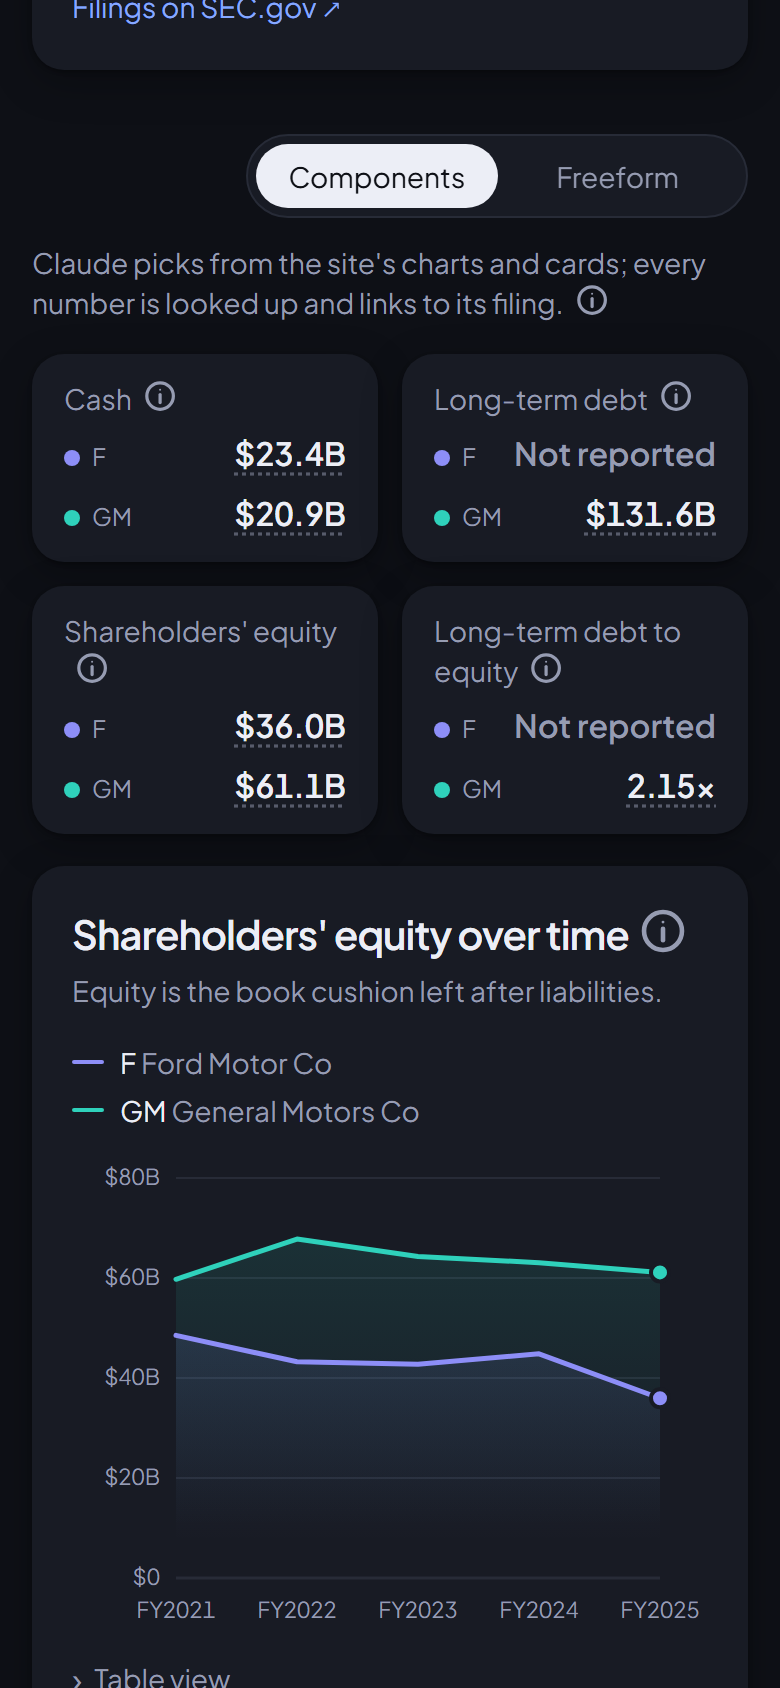
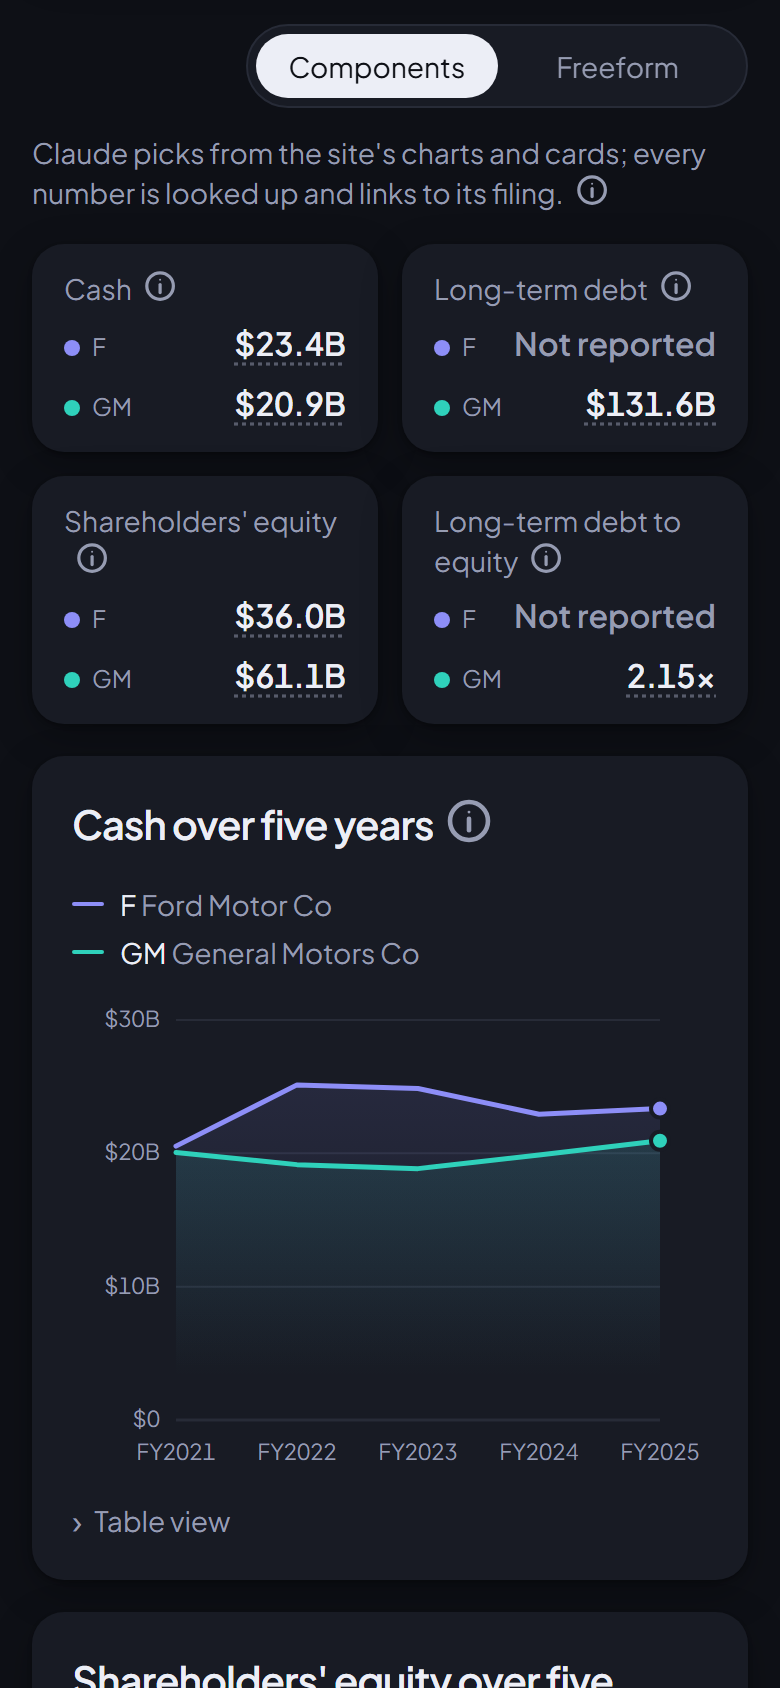
README: eval grading and score-only flags, featured --mode components, current F/GM phone shot
Claude-Session: https://claude.ai/code/session_015WuGVmquLA4h9Q3meDuMeT

diff --git a/README.md b/README.md
@@ -70,7 +70,7 @@ flowchart LR
 | `lib/filings` | The latest 10-K, condensed once per filing by Claude Haiku 5.5 (business, themed risks with quotes). Every quote is checked against the filing text. |
 | `lib/cache` | One interface: a local `.cache/` folder, or Upstash Redis when deployed. |
 | `agent/` | Lens + mode + data → components or an HTML page. No Next.js imports. [Its README](agent/README.md). |
-| `evals/` | Code checks on real output: every number in prose appears in the data, no `not reported` shown as a value, valid components, self-contained freeform pages. |
+| `evals/` | Code checks on real output: every number in prose appears in the data, no `not reported` shown as a value, valid components, self-contained freeform pages. Optional model-graded checks (Claude Opus) for what code can't judge: does the page answer the lens, do shared rows pair the same subject, does it claim anything beyond the data. |
 | `featured/` | Five comparisons generated ahead of time and committed, so they open with no Claude or SEC calls. |
 | `app/` | Next.js App Router: pages, the streaming `/api/compare` route, sign-in. |
 
@@ -93,8 +93,8 @@ your key, plus Claude Haiku 5.5 once per 10-K the first time a text lens reads i
 | Command | |
 |---|---|
 | `npm run lint && npm run typecheck && npm test` | What CI runs. Never calls Claude or the SEC. |
-| `npm run eval -- [--model sonnet\|opus] [--only <case>]` | Generates the eval cases and scores them (`evals/out/`). Calls Claude. |
-| `npm run featured -- [--only <case>] [--mode freeform]` | Regenerates featured comparisons, keeping only runs that pass every check (`--mode freeform`: only the freeform pages). Review each page by eye before committing it. |
+| `npm run eval -- [--model sonnet\|opus] [--only <case>] [--score-only] [--grade]` | Generates the eval cases and scores them (`evals/out/`). Calls Claude. `--score-only` rescores the saved runs without calling Claude; `--grade` adds the model-graded checks. |
+| `npm run featured -- [--only <case>] [--mode components\|freeform]` | Regenerates featured comparisons, keeping only runs that pass every check (`--mode`: only that mode's pages). Review each page by eye before committing it. |
 | `npm run eval:fixtures` | Rebuilds the eval fixtures from the SEC. |
 
 ## Deploy
